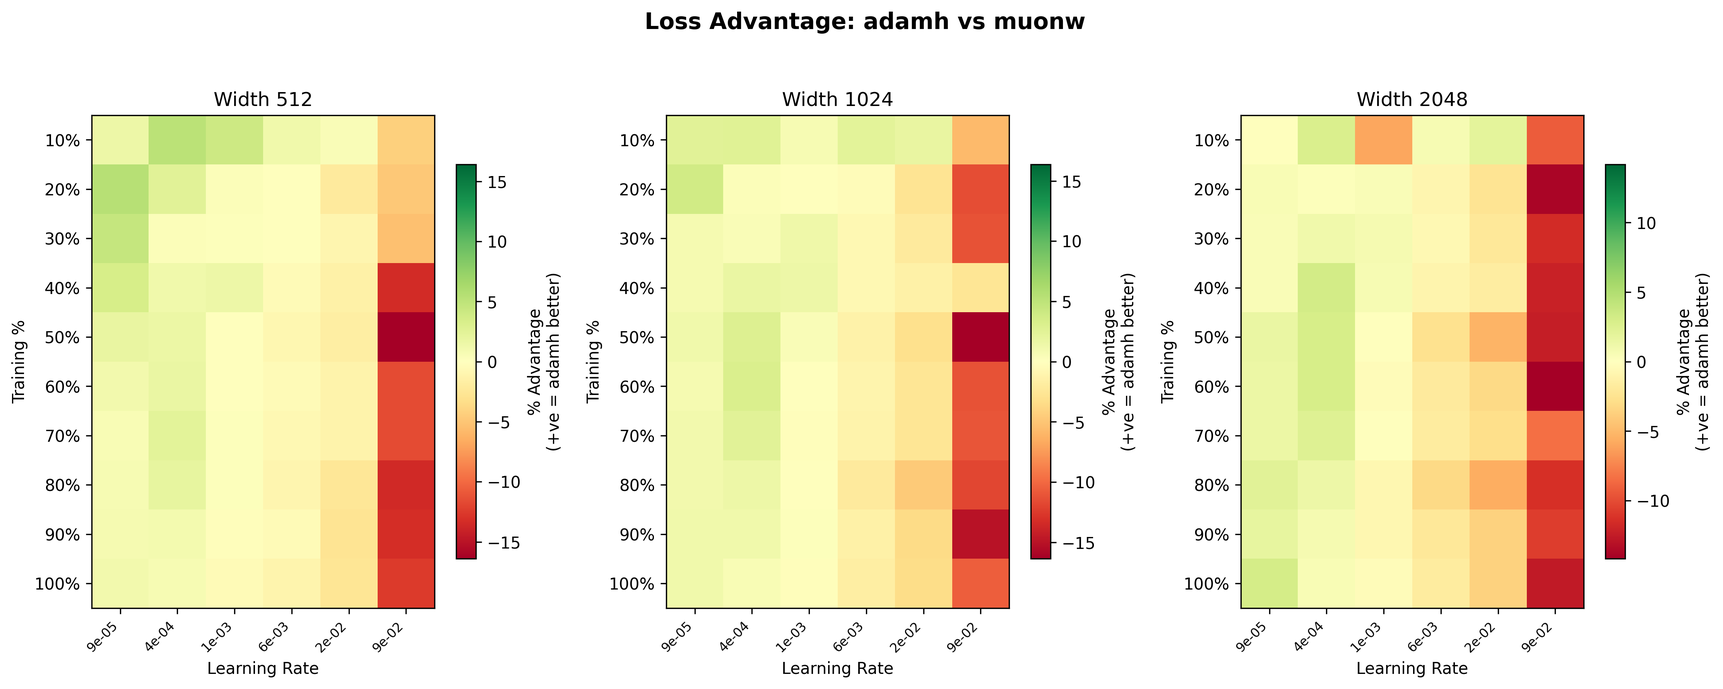
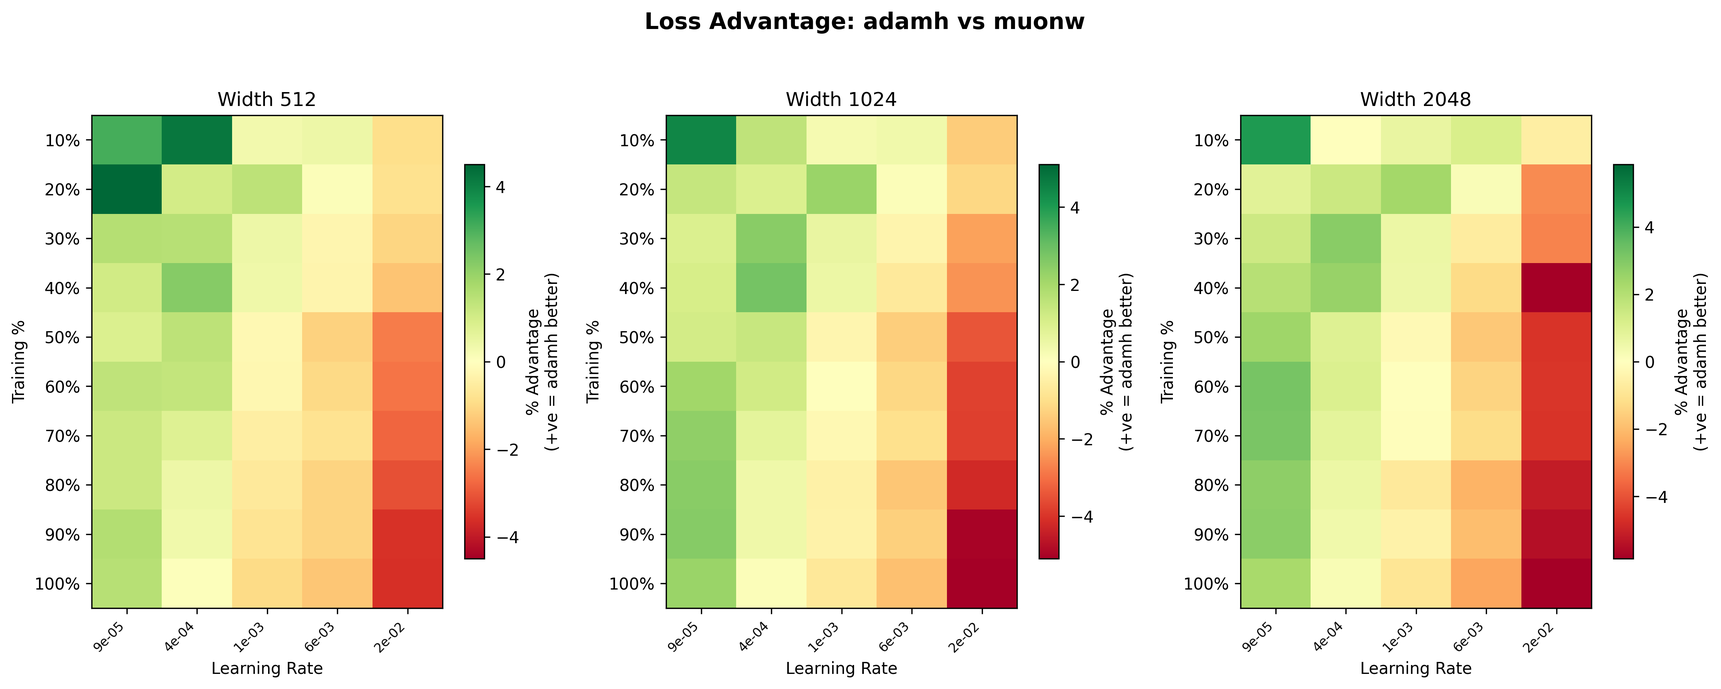
Some more updates

diff --git a/blogs/muon/index.html b/blogs/muon/index.html
@@ -75,10 +75,14 @@
                     <ul>
                         <li><a href="#page-title">Title</a></li>
                         <li><a href="#sec-muon">Muon</a></li>
-                        <li><a href="#sec-weight-decay">Weight decay</a></li>
-                        <li><a href="#sec-hyperball">Hyperball update</a></li>
-                        <li><a href="#sec-training-results">Training Results</a></li>
-                        <li><a href="#sec-perplexity-validation">Perplexity Validation</a></li>
+                        <li><a href="#sec-weight-regularization">Weight regularization</a>
+                            <ul>
+                                <li><a href="#sec-weight-decay">Weight decay</a></li>
+                                <li><a href="#sec-hyperball">Hyperball update</a></li>
+                            </ul>
+                        </li>
+                        <li><a href="#sec-perplexity-validation">Results</a></li>
+                        <li><a href="#sec-training-results">Training Dynamics</a></li>
                         <li><a href="#spectral-analysis">Spectral Analysis</a></li>
                         <li><a href="#sec-next-steps">Next steps</a></li>
                         <li><a href="#appendix">Appendices</a></li>
@@ -117,11 +121,12 @@
                     <section class="blog-takeaways" aria-label="Key takeaways">
                         <h3>Highlights</h3>
                         <ul>
-                            <li>After training over 10 epochs:
+                            <li>After training over 20 epochs:
                                 <ul>
                                     <li>MuonW achieves an <b>&sim;0.87%</b> higher geometric-mean probability on the correct nucleotide than the best Adam configuration (a perplexity ratio of <b>&sim;1.009</b>).</li>
-                                    <li>MuonW reaches the lowest overall validation perplexity at high learning rates, though MuonH is highly effective at lower learning rates.</li>
-                                    <li>Adam with Hyperball (AdamH) achieves a perplexity ratio of <b>&sim;1.010</b> over AdamW at their respective optimal learning rates.</li>
+                                    <li>To reach a validation perplexity target of 2.50, MuonW requires <b>&sim;47% fewer steps</b> (checkpoint 10 vs. 19) compared to the optimal AdamH configuration, resulting in a <b>1.9&times; speedup</b>.</li>
+                                    <li>There is a distinct phase change across the learning rate spectrum: MuonW at larger learning rates significantly outperforms its Hyperball counterpart (MuonH), whereas MuonH remains highly effective at lower learning rates.</li>
+                                    <li>Adam with Hyperball (AdamH) achieves a perplexity ratio of <b>&sim;1.010</b> over AdamW at their respective optimal learning rates. While the stable learning rate window is lower for AdamH, its absolute lowest perplexity is better.</li>
                                 </ul>
                             </li>
                             <li>We perform a spectral analysis to show how Muon's whitening promotes feature learning by forcing weights away from initialization.</li>
@@ -249,6 +254,11 @@
                         distributed signals that distinguish functional sequences from background.</p>
 
                     </details>
+
+                    <details class="collapsible-section">
+                        <summary>
+                            <h3 id="sec-weight-regularization">Weight regularization</h3>
+                        </summary>
 
                     <details class="collapsible-section">
                         <summary>
@@ -633,9 +643,142 @@
 
                     </details>
 
+                    </details>
+
                     <details class="collapsible-section" open>
                         <summary>
-                            <h3 id="sec-training-results">Training Results</h3>
+                            <h3 id="sec-perplexity-validation">Results</h3>
+                        </summary>
+                        <p> We track validation perplexity throughout training as a more interpretable measure of model capacity<span
+                            class="sidenote-group"><sup class="sidenote-ref">8</sup><span
+                            class="sidenote-card side-right">The model is a multifunctional architecture
+                            similar to <a href="/introducing-axis/">Axis</a>, trained on a set of
+                            candidate cis-regulatory elements (cCREs) from the ENCODE v4 registry that
+                            are cell-type-specific to one of three cell lines: K562, HepG2, and
+                            SK-N-SH. Training was limited to 20 epochs due to compute constraints;
+                            the loss has not begun to saturate (we have trained to much lower
+                            cross-entropy in prior runs), so these results reflect relative optimizer
+                            comparisons, not absolute model quality.</span></span>. Because perplexity directly reflects the geometric-mean inverse probability assigned to the correct token, it provides a highly sensitive metric for evaluating optimizer configurations across both learning rates and temporal checkpoints. We evaluate performance on a held-out validation split at regular intervals, reporting both the absolute final test perplexity (evaluated on sequences masked at the training rate) and the percentage advantage of one optimizer variant over another across the entire training trajectory.</p>
+                           
+                            <h4 class="blog-subheading">Time-to-target speedup</h4>
+                           
+                            <p>We can quantify optimization efficiency by measuring the training steps required to reach a specific validation target. To reach a validation perplexity of 2.50, MuonW at its optimal learning rate (&sim;\(2.27 \times 10^{-2}\)) effectively crosses this threshold by checkpoint 10. In contrast, AdamH at its optimal learning rate (&sim;\(5.69 \times 10^{-3}\)) only reaches 2.50 around checkpoint 19. This demonstrates that MuonW achieves the target perplexity in roughly <strong>47% fewer steps</strong>, translating to a <strong>1.9&times; speedup</strong> over the best Adam configuration.</p>
+
+                            <h4 class="blog-subheading">Final test perplexity by learning rate</h4>
+
+                        <p>The line plots below show the final validation perplexity (at the last checkpoint) for each optimizer pair as a function of the learning rate (log scale). Lower perplexity indicates better performance.</p>
+
+                        <figure class="blog-image">
+                            <img src="/blogs/muon/assets/comparison_AdamH_vs_AdamW.png"
+                                alt="Final test perplexity: AdamH vs AdamW" loading="lazy" />
+                            <figcaption>Final test perplexity for AdamH (blue) and AdamW (red) across learning rates.</figcaption>
+                        </figure>
+
+                        <p>Hyperball improves Adam's best-case performance but narrows its stable operating window. While the stable learning rate window is noticeably narrower for AdamH, its absolute lowest point is better: AdamH achieves the lowest overall perplexity for the Adam family (&sim;2.485) at a learning rate of &sim;\(5.69 \times 10^{-3}\), establishing a clear advantage over AdamW (&sim;2.529) at this same rate. However, AdamW proves more resilient at the extremes. At the lowest learning rate (&sim;\(9.00 \times 10^{-5}\)), AdamW maintains a lead (&sim;2.534 vs. &sim;2.566). Conversely, at the highest rate (&sim;\(2.27 \times 10^{-2}\)), AdamH degrades sharply (&sim;2.574) while AdamW remains relatively stable (&sim;2.526). Ultimately, while Hyperball unlocks Adam's peak performance, standard weight decay provides broader hyperparameter robustness.</p>
+                        
+                        <figure class="blog-image">
+                            <img src="/blogs/muon/assets/comparison_MuonH_vs_MuonW.png"
+                                alt="Final test perplexity: MuonH vs MuonW" loading="lazy" />
+                            <figcaption>Final test perplexity for MuonH (blue) and MuonW (red) across learning rates.</figcaption>
+                        </figure>
+
+                        <p>The dynamic between Muon variants is perfectly inverted: Hyperball dominates at low learning rates, while independent weight decay scales far better to higher rates. At &sim;\(9.00 \times 10^{-5}\), MuonH cleanly outperforms MuonW (&sim;2.555 vs. &sim;2.611), maintaining its edge through the &sim;\(1.43 \times 10^{-3}\) regime with a minimum perplexity of &sim;2.481. However, as the learning rate increases, MuonW closes the gap and eventually dominates. By &sim;\(5.69 \times 10^{-3}\), MuonW takes the lead (&sim;2.468 vs. &sim;2.484), and at the highest learning rate (&sim;\(2.27 \times 10^{-2}\)), it achieves the absolute best test perplexity across all sweeps (&sim;2.464), whereas MuonH destabilizes and rises to &sim;2.565.</p>
+
+                        <h4 class="blog-subheading">Perplexity advantage over training</h4>
+
+                        <p>The heatmaps below visualize the percentage advantage of one variant over the other at each checkpoint and learning rate. Green indicates the first-named variant (AdamH or MuonH) is outperforming; red indicates the second (AdamW or MuonW) holds the lead.</p>
+
+                        <figure class="blog-image">
+                            <div style="display: flex; gap: 1rem; flex-wrap: wrap; align-items: flex-start;">
+                                <div style="flex: 1; min-width: 280px;">
+                                    <img src="/blogs/muon/assets/advantage_AdamH_vs_AdamW.png"
+                                        alt="Perplexity advantage: AdamH vs AdamW" loading="lazy" style="width: 100%;" />
+                                </div>
+                                <div style="flex: 1; min-width: 280px;">
+                                    <img src="/blogs/muon/assets/advantage_MuonH_vs_MuonW.png"
+                                        alt="Perplexity advantage: MuonH vs MuonW" loading="lazy" style="width: 100%;" />
+                                </div>
+                            </div>
+                            <figcaption>Left: AdamH vs AdamW. Right: MuonH vs MuonW. Positive (green) = first-named variant better.</figcaption>
+                        </figure>
+
+                        <p>The heatmap confirms the temporal consistency of AdamH's mid-range superiority. At learning rates of &sim;\(1.43 \times 10^{-3}\) and &sim;\(5.69 \times 10^{-3}\), AdamH maintains a persistent advantage of roughly +1% to +2% (green) across nearly all checkpoints. Outside this optimal band, the advantage safely inverts. At the lowest learning rate, AdamH trails by &sim;&minus;1.2% during the middle phase of training. At the highest learning rate, AdamW establishes a consistent lead across all steps, with AdamH trailing by approximately &minus;1.9% by the final checkpoints.</p>
+
+                        <p>The heatmap for Muon reveals a sharp phase transition in optimizer dominance based on the learning rate scale. At &sim;\(9.00 \times 10^{-5}\), MuonH holds a commanding &sim;+2.2% advantage (dark green) throughout the entire training process. At &sim;\(5.69 \times 10^{-3}\), early checkpoints remain competitive before MuonW decisively takes over after checkpoint 6. By the maximum learning rate of &sim;\(2.27 \times 10^{-2}\), MuonW sustains a massive and expanding advantage (dark red), ultimately outperforming MuonH by nearly 4% (&approx;&minus;3.9%) by the end of training.</p>
+
+                        <h4 class="blog-subheading">Perplexity progression by checkpoint</h4>
+
+                        <p>The plots below show mean validation perplexity over the 20 checkpoints for each optimizer and learning rate. They make the temporal story behind the heatmaps explicit: how quickly each configuration improves and where it stabilizes.</p>
+
+                        <figure class="blog-image">
+                            <div style="display: grid; grid-template-columns: 1fr 1fr; gap: 1rem; max-width: 100%;">
+                                <div>
+                                    <img src="/blogs/muon/assets/perplexity_progression_AdamH.png"
+                                        alt="Perplexity progression — AdamH" loading="lazy" style="width: 100%;" />
+                                    <p style="margin: 0.25rem 0 0; font-size: 0.9em; color: #57534e;">AdamH</p>
+                                </div>
+                                <div>
+                                    <img src="/blogs/muon/assets/perplexity_progression_AdamW.png"
+                                        alt="Perplexity progression — AdamW" loading="lazy" style="width: 100%;" />
+                                    <p style="margin: 0.25rem 0 0; font-size: 0.9em; color: #57534e;">AdamW</p>
+                                </div>
+                                <div>
+                                    <img src="/blogs/muon/assets/perplexity_progression_MuonH.png"
+                                        alt="Perplexity progression — MuonH" loading="lazy" style="width: 100%;" />
+                                    <p style="margin: 0.25rem 0 0; font-size: 0.9em; color: #57534e;">MuonH</p>
+                                </div>
+                                <div>
+                                    <img src="/blogs/muon/assets/perplexity_progression_MuonW.png"
+                                        alt="Perplexity progression — MuonW" loading="lazy" style="width: 100%;" />
+                                    <p style="margin: 0.25rem 0 0; font-size: 0.9em; color: #57534e;">MuonW</p>
+                                </div>
+                            </div>
+                            <figcaption>Mean validation perplexity over training checkpoints for each optimizer, across five learning rates. Lower is better.</figcaption>
+                        </figure>
+
+                        <p>For AdamH, the intermediate learning rate &sim;\(5.69 \times 10^{-3}\) (green) gives the steepest drop and the lowest final perplexity (&sim;2.48); the lowest LR (\(9\times10^{-5}\)) improves slowly and stays highest, while the highest LR (&sim;\(2.27\times10^{-2}\)) is unstable and ends near 2.57. AdamW behaves differently: the smallest learning rate (\(9\times10^{-5}\)) reaches the best final perplexity (&sim;2.51) by the end, with a steady decline and little oscillation; higher LRs converge faster initially but plateau at slightly higher values. MuonH is strongest at mid-range LRs (&sim;\(1.43\times10^{-3}\) and &sim;\(5.69\times10^{-3}\)), which reach the lowest perplexity (&sim;2.48); the highest LR again shows more fluctuation and a worse final value. MuonW favors higher learning rates: the highest LR (&sim;\(2.27\times10^{-2}\)) achieves the best final perplexity (&sim;2.47) with a fast initial drop, while the lowest LR stays worst throughout. These progression curves align with the final-perplexity curves and heatmaps: AdamH and MuonH excel in a mid-LR band; AdamW and MuonW extend their best performance to low and high LRs respectively, with MuonW at high LR giving the best overall validation perplexity.</p>
+
+                        <p>First, progression at each learning rate (all four optimizers on one plot):</p>
+
+                        <figure class="blog-image">
+                            <div style="display: grid; grid-template-columns: 1fr 1fr; gap: 1rem; max-width: 100%;">
+                                <div>
+                                    <img src="/blogs/muon/assets/perplexity_progression_lr_9em05.png"
+                                        alt="Perplexity progression — lr=9×10⁻⁵" loading="lazy" style="width: 100%;" />
+                                    <p style="margin: 0.25rem 0 0; font-size: 0.9em; color: #57534e;">lr ≈ 9×10⁻⁵</p>
+                                </div>
+                                <div>
+                                    <img src="/blogs/muon/assets/perplexity_progression_lr_0p00035857.png"
+                                        alt="Perplexity progression — lr≈3.59×10⁻⁴" loading="lazy" style="width: 100%;" />
+                                    <p style="margin: 0.25rem 0 0; font-size: 0.9em; color: #57534e;">lr ≈ 3.59×10⁻⁴</p>
+                                </div>
+                                <div>
+                                    <img src="/blogs/muon/assets/perplexity_progression_lr_0p0014287.png"
+                                        alt="Perplexity progression — lr≈1.43×10⁻³" loading="lazy" style="width: 100%;" />
+                                    <p style="margin: 0.25rem 0 0; font-size: 0.9em; color: #57534e;">lr ≈ 1.43×10⁻³</p>
+                                </div>
+                                <div>
+                                    <img src="/blogs/muon/assets/perplexity_progression_lr_0p0056924.png"
+                                        alt="Perplexity progression — lr≈5.69×10⁻³" loading="lazy" style="width: 100%;" />
+                                    <p style="margin: 0.25rem 0 0; font-size: 0.9em; color: #57534e;">lr ≈ 5.69×10⁻³</p>
+                                </div>
+                                <div style="grid-column: 1 / -1; max-width: 50%;">
+                                    <img src="/blogs/muon/assets/perplexity_progression_lr_0p022681.png"
+                                        alt="Perplexity progression — lr≈2.27×10⁻²" loading="lazy" style="width: 100%;" />
+                                    <p style="margin: 0.25rem 0 0; font-size: 0.9em; color: #57534e;">lr ≈ 2.27×10⁻²</p>
+                                </div>
+                            </div>
+                            <figcaption>Mean validation perplexity over training checkpoints at each learning rate (AdamH, AdamW, MuonH, MuonW). Lower is better.</figcaption>
+                        </figure>
+
+                        <p>Below, the same data grouped by optimizer across the five learning rates:</p>
+
+                        <p>Collectively, the final-perplexity curves and temporal advantage heatmaps demonstrate that the efficacy of Hyperball (constrained weight decay) versus independent weight decay is highly contingent on the learning rate regime. At lower learning rates, the strict norm constraints of Hyperball successfully accelerate convergence and improve final perplexity. At higher learning rates, however, independent weight decay provides the flexibility necessary to reach the lowest global perplexity, with MuonW emerging as the most performant configuration overall.</p>
+                    </details>
+
+                    <details class="collapsible-section" open>
+                        <summary>
+                            <h3 id="sec-training-results">Training Dynamics</h3>
                         </summary>
                     <figure class="blog-image">
                         <img src="/blogs/muon/assets/loss_curves_nucleotide_loss.png"
@@ -645,25 +788,16 @@
                     </figure>
 
                     <p>We find that Muon achieves a lower train loss than Adam, consistent with existing
-                        literature<sup><a href="#ref-muon">2</a><a href="#ref-hyperball">10</a></sup><span
-                            class="sidenote-group"><sup class="sidenote-ref">8</sup><span
-                                class="sidenote-card side-right">The model is a multifunctional architecture
-                                similar to <a href="/introducing-axis/">Axis</a>, trained on a set of
-                                candidate cis-regulatory elements (cCREs) from the ENCODE v4 registry that
-                                are cell-type-specific to one of three cell lines: K562, HepG2, and
-                                SK-N-SH. Training was limited to 10 epochs due to compute constraints;
-                                the loss has not begun to saturate (we have trained to much lower
-                                cross-entropy in prior runs), so these results reflect relative optimizer
-                                comparisons, not absolute model quality.</span></span>.
+                        literature<sup><a href="#ref-muon">2</a><a href="#ref-hyperball">10</a></sup>.
                         Interestingly, the Hyperball constraint does not consistently improve both optimizers:
                         it helps Adam (AdamH better than AdamW) but <em>hurts</em> Muon (MuonW better than MuonH)<span
-                            class="sidenote-group"><sup class="sidenote-ref">9</sup><span
-                                class="sidenote-card side-right">The Hyperball blog<sup><a
-                                        href="#ref-hyperball">10</a></sup> actually shows that for Muon, the
-                                losses are comparable for models with &le; 500M parameters, and Hyperball
-                                dominates for the largest model of &gt;1B parameters. Our largest model is
-                                actually ~420M parameters large (as we are somewhat compute bound), so it is
-                                still possible for MuonH to outperform MuonW at a larger scale.</span></span>.
+                        class="sidenote-group"><sup class="sidenote-ref">9</sup><span
+                        class="sidenote-card side-right">The Hyperball blog<sup><a
+                        href="#ref-hyperball">10</a></sup> actually shows that for Muon, the
+                        losses are comparable for models with &le; 500M parameters, and Hyperball
+                        dominates for the largest model of &gt;1B parameters. Our largest model is
+                        actually ~420M parameters large (as we are somewhat compute bound), so it is
+                        still possible for MuonH to outperform MuonW at a larger scale.</span></span>.
                         The best overall configuration is Muon with independent weight decay (MuonW).</p>
                         <p>Why did Hyperball worsen Muon&rsquo;s performance? We hypothesize that this is
                         because Hyperball&rsquo;s re-projection scales all
@@ -791,89 +925,6 @@
                         on the correct token. Although we retain % CE in the heatmaps for visual clarity, we
                         use PPL ratios when discussing optimizer comparisons in the text.</p>
 
-                    </details>
-
-                    <details class="collapsible-section" open>
-                        <summary>
-                            <h3 id="sec-perplexity-validation">Perplexity Validation</h3>
-                        </summary>
-                        <p>Beyond raw cross-entropy loss, we track validation perplexity throughout training as a more interpretable measure of model capacity. Because perplexity directly reflects the geometric-mean inverse probability assigned to the correct token, it provides a highly sensitive metric for evaluating optimizer configurations across both learning rates and temporal checkpoints. We evaluate performance on a held-out validation split at regular intervals, reporting both the absolute final test perplexity (evaluated on sequences masked at the training rate) and the percentage advantage of one optimizer variant over another across the entire training trajectory.</p>
-
-                        <h4 class="blog-subheading">Final test perplexity by learning rate</h4>
-
-                        <p>The line plots below show the final validation perplexity (at the last checkpoint) for each optimizer pair as a function of the learning rate (log scale). Lower perplexity indicates better performance.</p>
-
-                        <figure class="blog-image">
-                            <img src="/blogs/muon/assets/comparison_AdamH_vs_AdamW.png"
-                                alt="Final test perplexity: AdamH vs AdamW" loading="lazy" />
-                            <figcaption>Final test perplexity for AdamH (blue) and AdamW (red) across learning rates.</figcaption>
-                        </figure>
-
-                        <p>Hyperball improves Adam's best-case performance but narrows its stable operating window. AdamH achieves the lowest overall perplexity for the Adam family (&sim;2.485) at a learning rate of &sim;\(5.69 \times 10^{-3}\), establishing a clear advantage over AdamW (&sim;2.529) at this same rate. However, AdamW proves more resilient at the extremes. At the lowest learning rate (&sim;\(9.00 \times 10^{-5}\)), AdamW maintains a lead (&sim;2.534 vs. &sim;2.566). Conversely, at the highest rate (&sim;\(2.27 \times 10^{-2}\)), AdamH degrades sharply (&sim;2.574) while AdamW remains relatively stable (&sim;2.526). Ultimately, while Hyperball unlocks Adam's peak performance, standard weight decay provides broader hyperparameter robustness.</p>
-
-                        <figure class="blog-image">
-                            <img src="/blogs/muon/assets/comparison_MuonH_vs_MuonW.png"
-                                alt="Final test perplexity: MuonH vs MuonW" loading="lazy" />
-                            <figcaption>Final test perplexity for MuonH (blue) and MuonW (red) across learning rates.</figcaption>
-                        </figure>
-
-                        <p>The dynamic between Muon variants is perfectly inverted: Hyperball dominates at low learning rates, while independent weight decay scales far better to higher rates. At &sim;\(9.00 \times 10^{-5}\), MuonH cleanly outperforms MuonW (&sim;2.555 vs. &sim;2.611), maintaining its edge through the &sim;\(1.43 \times 10^{-3}\) regime with a minimum perplexity of &sim;2.481. However, as the learning rate increases, MuonW closes the gap and eventually dominates. By &sim;\(5.69 \times 10^{-3}\), MuonW takes the lead (&sim;2.468 vs. &sim;2.484), and at the highest learning rate (&sim;\(2.27 \times 10^{-2}\)), it achieves the absolute best test perplexity across all sweeps (&sim;2.464), whereas MuonH destabilizes and rises to &sim;2.565.</p>
-
-                        <h4 class="blog-subheading">Perplexity advantage over training</h4>
-
-                        <p>The heatmaps below visualize the percentage advantage of one variant over the other at each checkpoint and learning rate. Green indicates the first-named variant (AdamH or MuonH) is outperforming; red indicates the second (AdamW or MuonW) holds the lead.</p>
-
-                        <figure class="blog-image">
-                            <div style="display: flex; gap: 1rem; flex-wrap: wrap; align-items: flex-start;">
-                                <div style="flex: 1; min-width: 280px;">
-                                    <img src="/blogs/muon/assets/advantage_AdamH_vs_AdamW.png"
-                                        alt="Perplexity advantage: AdamH vs AdamW" loading="lazy" style="width: 100%;" />
-                                </div>
-                                <div style="flex: 1; min-width: 280px;">
-                                    <img src="/blogs/muon/assets/advantage_MuonH_vs_MuonW.png"
-                                        alt="Perplexity advantage: MuonH vs MuonW" loading="lazy" style="width: 100%;" />
-                                </div>
-                            </div>
-                            <figcaption>Left: AdamH vs AdamW. Right: MuonH vs MuonW. Positive (green) = first-named variant better.</figcaption>
-                        </figure>
-
-                        <p>The heatmap confirms the temporal consistency of AdamH's mid-range superiority. At learning rates of &sim;\(1.43 \times 10^{-3}\) and &sim;\(5.69 \times 10^{-3}\), AdamH maintains a persistent advantage of roughly +1% to +2% (green) across nearly all checkpoints. Outside this optimal band, the advantage safely inverts. At the lowest learning rate, AdamH trails by &sim;&minus;1.2% during the middle phase of training. At the highest learning rate, AdamW establishes a consistent lead across all steps, with AdamH trailing by approximately &minus;1.9% by the final checkpoints.</p>
-
-                        <p>The heatmap for Muon reveals a sharp phase transition in optimizer dominance based on the learning rate scale. At &sim;\(9.00 \times 10^{-5}\), MuonH holds a commanding &sim;+2.2% advantage (dark green) throughout the entire training process. At &sim;\(5.69 \times 10^{-3}\), early checkpoints remain competitive before MuonW decisively takes over after checkpoint 6. By the maximum learning rate of &sim;\(2.27 \times 10^{-2}\), MuonW sustains a massive and expanding advantage (dark red), ultimately outperforming MuonH by nearly 4% (&approx;&minus;3.9%) by the end of training.</p>
-
-                        <h4 class="blog-subheading">Perplexity progression by checkpoint</h4>
-
-                        <p>The plots below show mean validation perplexity over the 20 checkpoints for each optimizer and learning rate. They make the temporal story behind the heatmaps explicit: how quickly each configuration improves and where it stabilizes.</p>
-
-                        <figure class="blog-image">
-                            <div style="display: grid; grid-template-columns: 1fr 1fr; gap: 1rem; max-width: 100%;">
-                                <div>
-                                    <img src="/blogs/muon/assets/perplexity_progression_AdamH.png"
-                                        alt="Perplexity progression — AdamH" loading="lazy" style="width: 100%;" />
-                                    <p style="margin: 0.25rem 0 0; font-size: 0.9em; color: #57534e;">AdamH</p>
-                                </div>
-                                <div>
-                                    <img src="/blogs/muon/assets/perplexity_progression_AdamW.png"
-                                        alt="Perplexity progression — AdamW" loading="lazy" style="width: 100%;" />
-                                    <p style="margin: 0.25rem 0 0; font-size: 0.9em; color: #57534e;">AdamW</p>
-                                </div>
-                                <div>
-                                    <img src="/blogs/muon/assets/perplexity_progression_MuonH.png"
-                                        alt="Perplexity progression — MuonH" loading="lazy" style="width: 100%;" />
-                                    <p style="margin: 0.25rem 0 0; font-size: 0.9em; color: #57534e;">MuonH</p>
-                                </div>
-                                <div>
-                                    <img src="/blogs/muon/assets/perplexity_progression_MuonW.png"
-                                        alt="Perplexity progression — MuonW" loading="lazy" style="width: 100%;" />
-                                    <p style="margin: 0.25rem 0 0; font-size: 0.9em; color: #57534e;">MuonW</p>
-                                </div>
-                            </div>
-                            <figcaption>Mean validation perplexity over training checkpoints for each optimizer, across five learning rates. Lower is better.</figcaption>
-                        </figure>
-
-                        <p>For AdamH, the intermediate learning rate &sim;\(5.69 \times 10^{-3}\) (green) gives the steepest drop and the lowest final perplexity (&sim;2.48); the lowest LR (\(9\times10^{-5}\)) improves slowly and stays highest, while the highest LR (&sim;\(2.27\times10^{-2}\)) is unstable and ends near 2.57. AdamW behaves differently: the smallest learning rate (\(9\times10^{-5}\)) reaches the best final perplexity (&sim;2.51) by the end, with a steady decline and little oscillation; higher LRs converge faster initially but plateau at slightly higher values. MuonH is strongest at mid-range LRs (&sim;\(1.43\times10^{-3}\) and &sim;\(5.69\times10^{-3}\)), which reach the lowest perplexity (&sim;2.48); the highest LR again shows more fluctuation and a worse final value. MuonW favors higher learning rates: the highest LR (&sim;\(2.27\times10^{-2}\)) achieves the best final perplexity (&sim;2.47) with a fast initial drop, while the lowest LR stays worst throughout. These progression curves align with the final-perplexity curves and heatmaps: AdamH and MuonH excel in a mid-LR band; AdamW and MuonW extend their best performance to low and high LRs respectively, with MuonW at high LR giving the best overall validation perplexity.</p>
-
-                        <p>Collectively, the final-perplexity curves and temporal advantage heatmaps demonstrate that the efficacy of Hyperball (constrained weight decay) versus independent weight decay is highly contingent on the learning rate regime. At lower learning rates, the strict norm constraints of Hyperball successfully accelerate convergence and improve final perplexity. At higher learning rates, however, independent weight decay provides the flexibility necessary to reach the lowest global perplexity, with MuonW emerging as the most performant configuration overall.</p>
                     </details>
 
                     <details class="collapsible-section" open>
@@ -1251,7 +1302,7 @@
                     <p>Note that \(\sigma_2\) is the maximum stretch induced orthogonal to
                         \(v_1=\arg\max_{\|x\|=1}\|Ax\|\), or \(\sigma_2=\max_{x\perp v_1:\:\|x\|=1}\|Ax\|\), and
                         \(\sigma_3\) has the stretch orthogonal to the first 2, and so on<span
-                            class="sidenote-group"><sup class="sidenote-ref">17</sup><span
+                            class="sidenote-group"><sup class="sidenote-ref">16</sup><span
                                 class="sidenote-card side-right">For completeness, we can generalize this idea
                                 either recursively (where we define \(\sigma_i\) as the max stretch orthogonal to
                                 \(v_j\) \(\forall j \lt i\)), or succinctly using the Min max theorem:
@@ -1264,7 +1315,7 @@
                     <ul>
                         <li><strong>Spectral norm/stability:</strong> The spectral norm is defined as
                             \(\|\cdot\|_2=\sigma_1(\cdot)\) on matrix inputs. It is the operator norm<span
-                                class="sidenote-group"><sup class="sidenote-ref">18</sup><span
+                                class="sidenote-group"><sup class="sidenote-ref">17</sup><span
                                     class="sidenote-card side-left">Formally, the operator norm \(\|\cdot\|_p\) is
                                     defined for \(A\in \mathbb R^{m\times n}\) as \(\|A\|_p=\max\{\|Ax\|_p:x\in
                                     \mathbb R^n, \|x\|_p\le 1\}\), where we apply the \(\ell_p\) norm to the
@@ -1698,6 +1749,10 @@
                     var group = card.closest('.sidenote-group');
                     var container = card.offsetParent;
                     if (!group || !container) return;
+                    /* Skip sidenotes inside collapsed sections — they shouldn't
+                       participate in overlap detection at all. */
+                    var closedDetails = card.closest('details.collapsible-section:not([open])');
+                    if (closedDetails) return;
                     var ref = group.querySelector('.sidenote-ref');
                     if (!ref) return;
 

diff --git a/css/style.css b/css/style.css
@@ -1191,6 +1191,10 @@ main {
         margin: 0;
     }
 
+    .blog-with-sidebar .blog-toc ul ul {
+        padding-left: 0.75rem;
+    }
+
     .blog-with-sidebar .blog-toc a {
         display: block;
         padding: 0.4rem 0.75rem;
@@ -1293,6 +1297,10 @@ main {
     margin: 0;
     display: inline;
     line-height: 1;
+}
+
+.blog-article details.collapsible-section details.collapsible-section > summary h3 {
+    font-size: 1.3rem;
 }
 
 .blog-article p {
@@ -1596,7 +1604,7 @@ main {
         display: none !important;
     }
 
-    /* Indicator appended to a visible card when another note is hidden behind it */
+    Indicator appended to a visible card when another note is hidden behind it
     .sidenote-overflow-indicator {
         display: flex;
         align-items: center;
